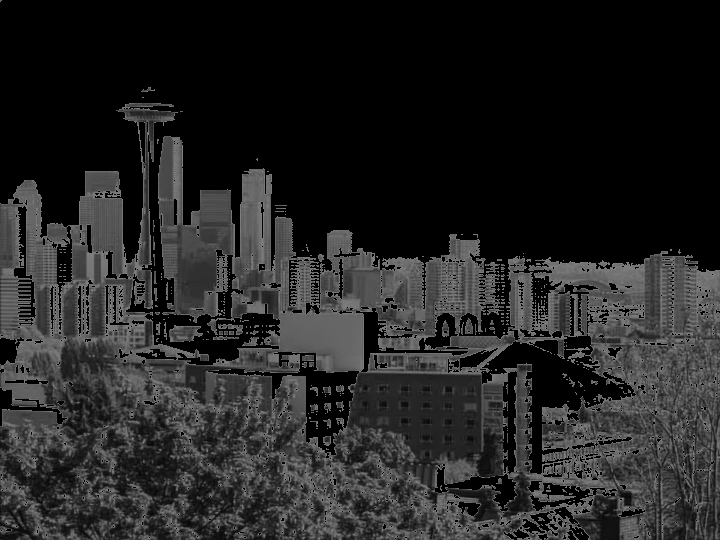
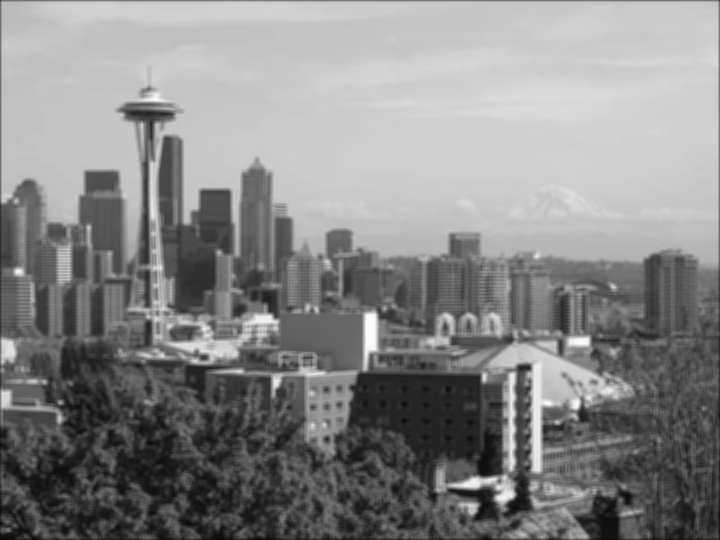
update

diff --git a/Lista03/Q1.py b/Lista03/Q1.py
@@ -27,7 +27,6 @@ def applyConvolutionAtPixel(old_pixels : np.ndarray, kernel : np.ndarray, x : in
     h, w = kernel.shape
     value = 0
 
-
     # gauss = [[1/16, 1/8, 1/16],
     #          [1/8, 1/4, 1/8],
     #          [1/16, 1/8, 1/16]]
@@ -48,7 +47,7 @@ def applyConvolutionAtPixel(old_pixels : np.ndarray, kernel : np.ndarray, x : in
     return np.int8(value)
 
 def convolution(old_pixels : np.ndarray, kernel : np.ndarray) -> np.ndarray:
-    new_pixels = np.zeros_like(old_pixels, dtype=np.int8)
+    new_pixels = np.zeros_like(old_pixels, dtype=np.uint8)
     for y in range(0, len(old_pixels)):
         for x in range(0, len(old_pixels[0])):
             new_pixels[y][x] = applyConvolutionAtPixel(old_pixels, kernel, x, y)
@@ -80,46 +79,22 @@ def showImage(pixels):
      
 def saveImage(name, pixels):
 	cv.imwrite(name, pixels)
+     
+def gaussianBlur(image_path : str, image_ext : str, kernel_height : int, kernel_width : int, standard_deviation : int, flag : bool = False) -> np.ndarray:
+    img = cv.imread(image_path + '.' + image_ext, cv.IMREAD_GRAYSCALE)
+    kernel = calcGaussianKernel(kernel_height, kernel_width, standard_deviation)
+    # print(kernel)
+    # print(sum(pixel for line in kernel for pixel in line))
+    pixels = np.asarray(img)
+    filter_pixels = convolution(pixels, kernel)
+    if(flag == True):
+        saveImage(image_path + "-GaussianFilter.png", filter_pixels)
+    return filter_pixels
 
 if __name__ == "__main__":
     np.set_printoptions(suppress = True)
     np.set_printoptions(linewidth=np.inf)
 
-    # img = cv.imread("home\\bruno\\PIM\\Imagens para testes\\taxaPerCapitaRouboCarros.png")
-    # img = cv.imread("DIP-XE.png", cv.IMREAD_GRAYSCALE)
-    # img = cv.imread("city.webp", cv.COLOR_RGB2RGBA)
-
-    # h = 3
-    # w = 3
-    # x = 0
-    # y = 0
-    # for i in range (0, h): 
-    #     for j in range(0, w):
-    #         print("i = " + str(i) + ", j = " + str(j))
-    #         # print("Color at x = " + str(x + roundDependentSignal(float(j) - (float(w)/2.0))) + ", y = " + str(x + roundDependentSignal(float(i) - (float(h)/2.0))))
-    #         print("Color at x = " + str(x + j - floor(w/2.0)) + ", y = " + str(x + i - floor(h/2.0)))
-    # pass
-
-    image_path = "Imagens/DIP-XE"
+    image_path = "Imagens/city"
     image_ext = "png"
-    img = cv.imread(image_path + '.' + image_ext, cv.IMREAD_GRAYSCALE)
-    
-    pixels = np.asarray(img)
-    height = len(pixels)
-    width = len(pixels[0])
-
-    standard_deviation = 3
-    kernel_size = 3
-    # kernel_size = 1+2*ceil(2*standard_deviation)
-    # kernel_size = ceil(2 * np.pi * standard_deviation)
-    # kernel_size = 2 * int(4 * standard_deviation + 0.5) + 1
-    kernel = calcGaussianKernel(kernel_size, kernel_size, standard_deviation)
-    print(kernel)
-    print(sum(pixel for line in kernel for pixel in line))
-
-    # filter_pixels = normalizeNDArray(convolution(pixels, kernel))
-    filter_pixels = convolution(pixels, kernel)
-
-    # saveImage(image_path + ".png", pixels)
-    saveImage(image_path + "-GaussianFilter.png", filter_pixels)
-    # gradient_pixels = np.zeros((height, width), dtype=np.int64)
+    filter_pixels = gaussianBlur(image_path, image_ext, 5, 5, 3, True)
